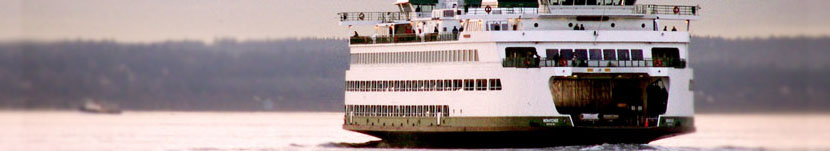
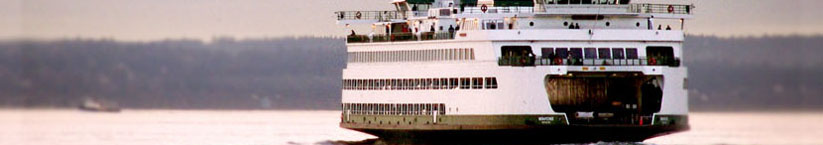
Cleaning up interaction on front page

diff --git a/public/stylesheets/templates.css b/public/stylesheets/templates.css
@@ -44,24 +44,26 @@ a:focus {
   #banner #banner-content {
     border: 1px solid #FF7F00;
     height: 145px;
-    background: #FF7F00 url(/images/banner2.jpg) no-repeat center center; }
-  #banner #banner-caption {
-    position: absolute;
-    top: 1px;
-    left: 1px;
-    height: 145px;
-    width: 12em;
-    background: url(/images/bg-banner-caption.png);
-    border-right: 1px solid #FF7F00; }
-    #banner #banner-caption #banner-caption-content {
-      filter: alpha(opacity=100);
-      opacity: 1;
-      -moz-opacity: 1;
-      padding: 1em; }
-      #banner #banner-caption #banner-caption-content h4, #banner #banner-caption #banner-caption-content h5 {
-        margin: 0.5em 0; }
-      #banner #banner-caption #banner-caption-content p {
-        font-size: 85%; }
+    background: #FF7F00; }
+    #banner #banner-content #caption-container {
+      position: absolute;
+      top: 0px;
+      left: 0px;
+      height: 146px;
+      width: 12em;
+      background: url(/images/bg-banner-caption.png);
+      border-right: 1px solid #FF7F00; }
+      #banner #banner-content #caption-container #caption {
+        filter: alpha(opacity=100);
+        opacity: 1;
+        -moz-opacity: 1;
+        padding: 1em; }
+        #banner #banner-content #caption-container #caption * {
+          width: 12em; }
+        #banner #banner-content #caption-container #caption h4, #banner #banner-content #caption-container #caption h5 {
+          margin: 0.5em 0; }
+        #banner #banner-content #caption-container #caption p {
+          font-size: 85%; }
 
 #breadcrumbs {
   font-size: 85%;

diff --git a/public/javascripts/application.js b/public/javascripts/application.js
@@ -1,7 +1,7 @@
 jQuery(document).ready(function($) {
   observeFocus();
   observeNavigation();
-  animateBannerCaption();
+  //animateBannerCaption();
   jQuery('a[rel*=facebox]').facebox();
 })
 
@@ -24,7 +24,7 @@ function observeNavigation(){
   if($('#nav li').length > 0){
     var config = {    
       sensitivity: 2, 
-      interval: 50,
+      interval: 20,
       over: showSubMenu,
       timeout: 350,
       out: hideSubMenu
@@ -32,11 +32,11 @@ function observeNavigation(){
     $("#nav li").hoverIntent(config);
   }
 }
-function showSubMenu(){ $(this).addClass('current').children('ul').slideDown(300) }
-function hideSubMenu(){ $(this).removeClass('current').children('ul').slideUp(300) }
+function showSubMenu(){ $(this).addClass('current').children('ul').slideDown(100) }
+function hideSubMenu(){ $(this).removeClass('current').children('ul').slideUp(100) }
 
 function animateBannerCaption(){
-  var bannerId = '#banner-caption';
+  var bannerId = '#banner-content div';
   var defaultWidth = $(bannerId).css('width');
   $(bannerId).children().hide();
   $(bannerId).css('width','0').animate({width: defaultWidth}, 800, function(){

diff --git a/public/stylesheets/sass/templates.sass b/public/stylesheets/sass/templates.sass
@@ -50,24 +50,26 @@ a
   #banner-content
     :border 1px solid #FF7F00
     :height 145px
-    :background #FF7F00 url(/images/banner2.jpg) no-repeat center center
-  #banner-caption
-    :position absolute
-    :top 1px
-    :left 1px
-    :height 145px
-    :width 12em
-    :background url(/images/bg-banner-caption.png)
-    :border-right 1px solid #FF7F00
-    #banner-caption-content
-      :filter alpha(opacity=100) 
-      :opacity 1
-      :-moz-opacity 1
-      :padding 1em
-      h4,h5
-        :margin 0.5em 0
-      p
-        :font-size 85%
+    :background #FF7F00
+    #caption-container
+      :position absolute
+      :top 0px
+      :left 0px
+      :height 146px
+      :width 12em
+      :background url(/images/bg-banner-caption.png)
+      :border-right 1px solid #FF7F00
+      #caption
+        :filter alpha(opacity=100) 
+        :opacity 1
+        :-moz-opacity 1
+        :padding 1em
+        *
+          :width 12em
+        h4,h5
+          :margin 0.5em 0
+        p
+          :font-size 85%
     
 #breadcrumbs
   :font-size 85%
